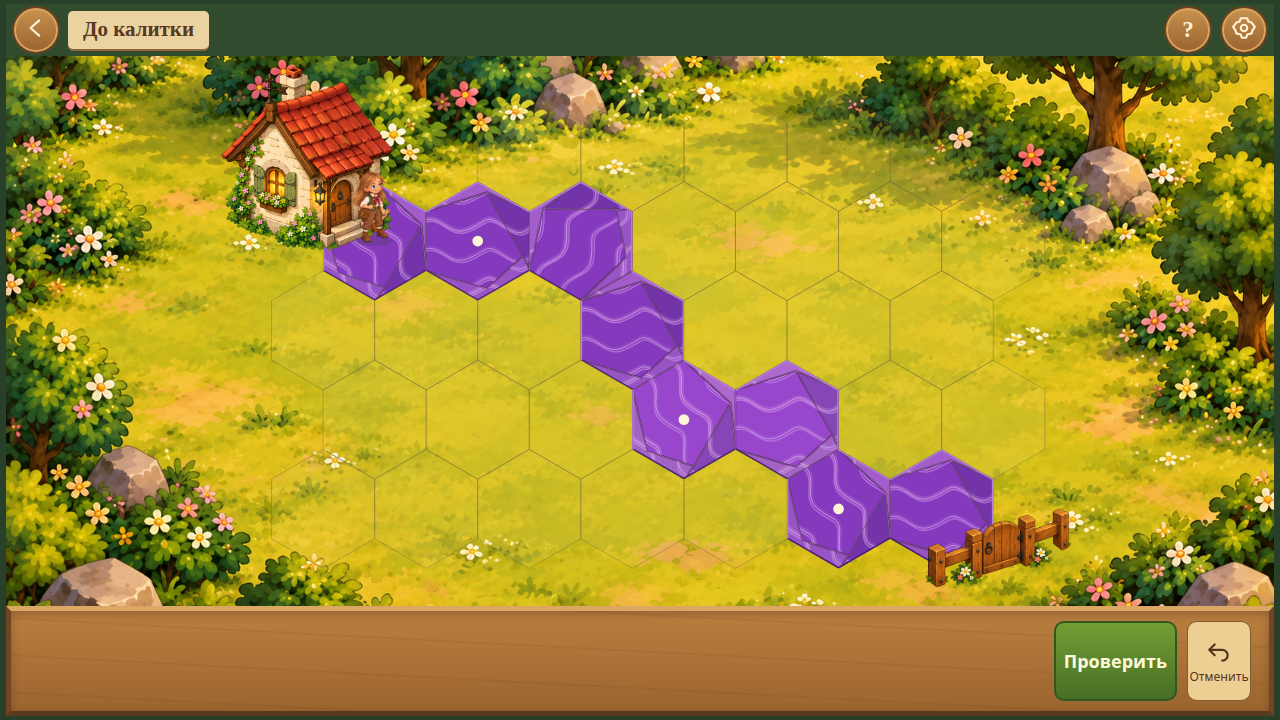
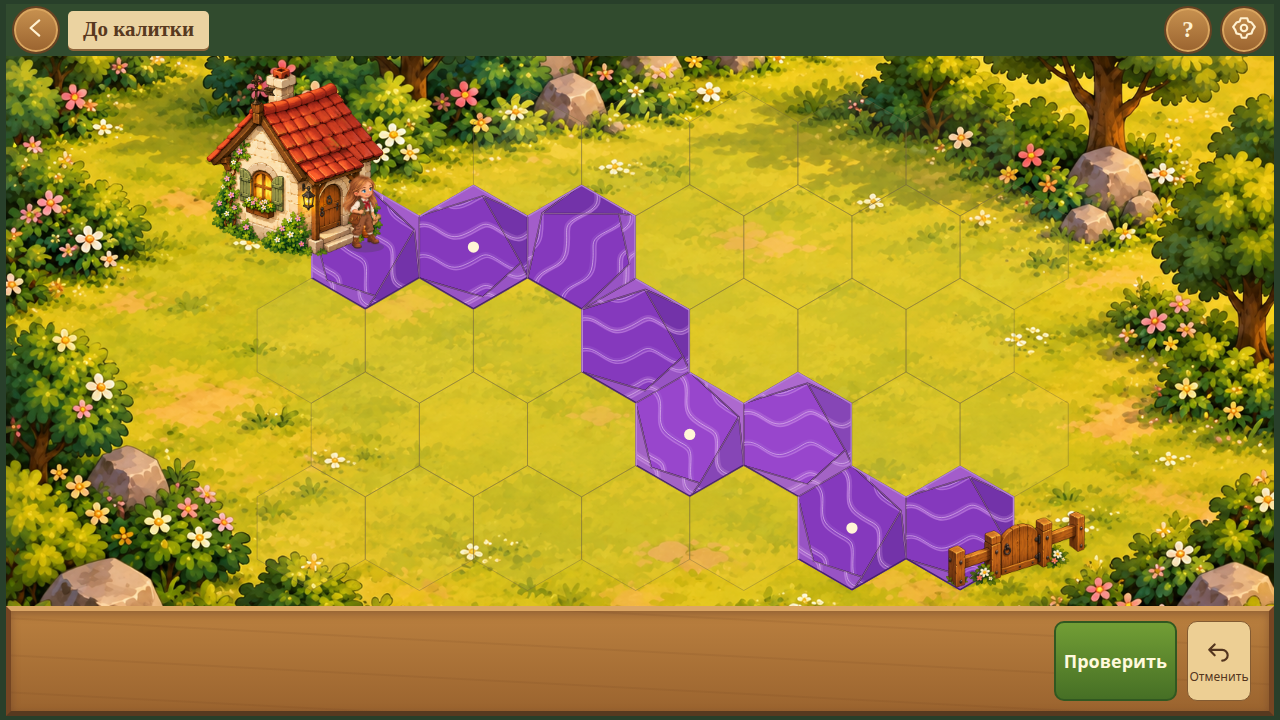
fix: align gate opening closer to goal platform edge

diff --git a/src/scene-layout.ts b/src/scene-layout.ts
@@ -9,10 +9,10 @@ function sprite(anchor:Point,width:number,aspect:number,source:Point):SpriteLayo
 /** Unit-radius world: one uniform fit, with the same anchors in every orientation. */
 export function sceneLayout(width:number,height:number,cols:number,rows:number,start:Hex,goal:Hex){
   const a=hexCenter(start,1),b=hexCenter(goal,1);
-  const house=sprite({x:a.x-.55,y:a.y},3.5,1312/1199,sourceAnchors.house);
-  const ruta=sprite(a,1.27*1209/1300,1209/1300,sourceAnchors.ruta);
+  const house=sprite({x:a.x-.55,y:a.y},3.45,1312/1199,sourceAnchors.house);
+  const ruta=sprite(a,1.25*1209/1300,1209/1300,sourceAnchors.ruta);
   // The opening meets the lower-right edge; the fence extends out of the court.
-  const gate=sprite({x:b.x+.95,y:b.y+1.15},2.6,1536/1024,sourceAnchors.gate);
+  const gate=sprite({x:b.x+.9,y:b.y+.8},2.4,1536/1024,sourceAnchors.gate);
   const centers=boardCells(cols,rows).map(h=>hexCenter(h,1));
   const left=Math.min(...centers.map(c=>c.x-Math.sqrt(3)/2),house.x,ruta.x,gate.x);
   const top=Math.min(...centers.map(c=>c.y-1),house.y,ruta.y,gate.y);

diff --git a/tests/scene.test.ts b/tests/scene.test.ts
@@ -21,7 +21,7 @@ test('Единая сцена: ноги на старте, source anchors и hit
     }
     assert.ok(scene.house.width/(scene.bounds.right-scene.bounds.left)<=.24);
     assert.ok(scene.house.height/scene.ruta.height>=2.5);
-    assert.ok(Math.hypot(scene.gate.anchor.x-hexCenter(level.goal,1).x,scene.gate.anchor.y-hexCenter(level.goal,1).y)<1.6);
+    assert.ok(Math.hypot(scene.gate.anchor.x-hexCenter(level.goal,1).x,scene.gate.anchor.y-hexCenter(level.goal,1).y)<1.25);
   }
 });
 test('Декор не перекрывает обычные проходимые клетки; дом занимает данные blocked-клетки',()=>{
